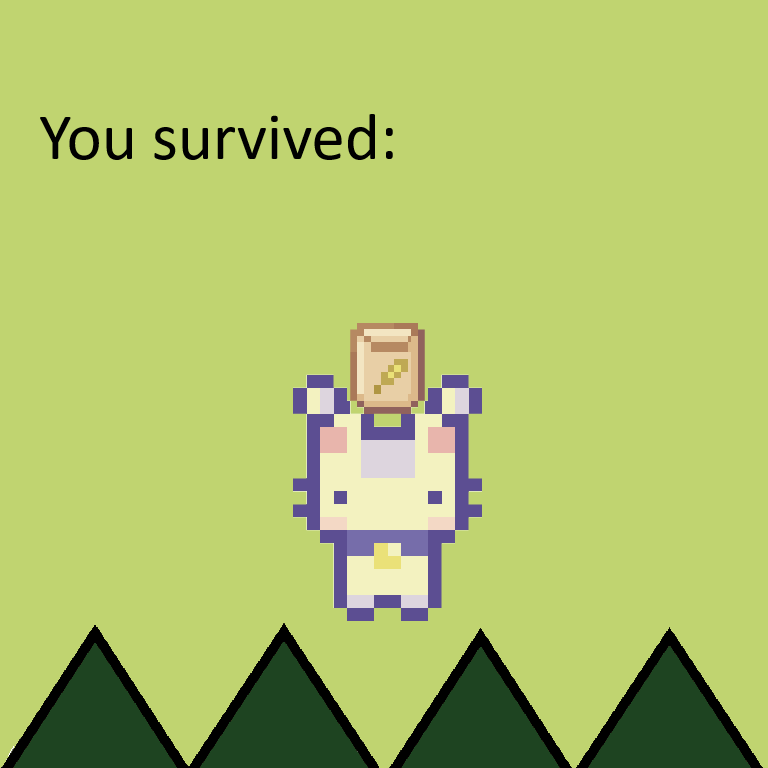
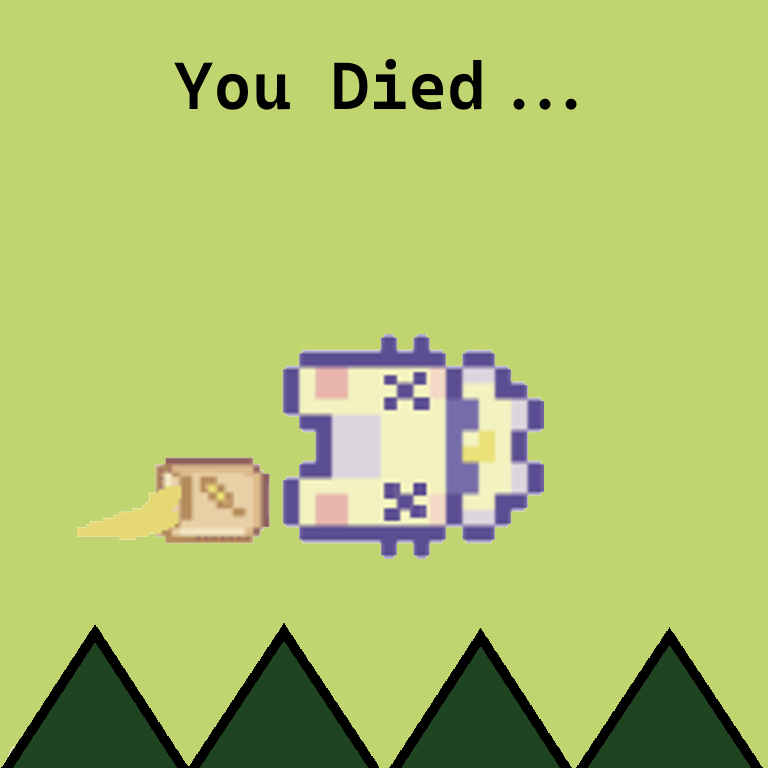
Made tornados break stuff

Changed region(s): [[0.0938, 0.4062, 0.7188, 0.8125], [0.0625, 0.0625, 0.625, 0.2188], [0.6562, 0.125, 0.75, 0.1562]]

diff --git a/natural_disaster.py b/natural_disaster.py
@@ -5,7 +5,8 @@ import random
 
 
 class NaturalDisaster(Generic):
-    def __init__(self, pos, image, group, speed):
+    def __init__(self, pos, image, group, speed, name):
+        self.name = name
         self.pos = pos
         self.image = image
         self.all_sprites = group
@@ -32,13 +33,13 @@ class NaturalDisaster(Generic):
         self.rect.x = self.pos[0]
         self.rect.y = self.pos[1]
 
-    # Make sure to make an if off-screen method
-
 
 class NaturalDisasterSpawner:
-    def __init__(self, natural_disasters, all_sprites):
+    def __init__(self, natural_disasters, all_sprites, soil_layer, plant_layer):
         self.natural_disasters = natural_disasters
         self.all_sprites = all_sprites
+        self.soil_layer = soil_layer
+        self.plant_layer = plant_layer
         self.tornado_timer = Timer(random.randint(NATURAL_DISASTER_SPAWN_TIMES['tornado'][0], NATURAL_DISASTER_SPAWN_TIMES['tornado'][1]), self.spawn, 'tornado')
         self.earthquake_timer = Timer(random.randint(NATURAL_DISASTER_SPAWN_TIMES['earthquake'][0], NATURAL_DISASTER_SPAWN_TIMES['earthquake'][1]), self.spawn, 'earthquake')
         self.timers = {'tornado': self.tornado_timer, 'earthquake': self.earthquake_timer}
@@ -50,13 +51,22 @@ class NaturalDisasterSpawner:
             all_sides = ['up', 'right', 'down', 'left']
             chosen_side = random.choice(all_sides)
             if chosen_side == 'up':
-                self.natural_disasters.append(Tornado((random.randrange(0, GROUND.get_width(), 64), -TILE_SIZE), TORNADO_IMAGE, self.all_sprites, TORNADO_SPEED))
+                self.natural_disasters.append(Tornado((random.randrange(0, GROUND.get_width(), 64), -TILE_SIZE), TORNADO_IMAGE, self.all_sprites, TORNADO_SPEED, self.soil_layer, self.plant_layer))
             elif chosen_side == 'right':
-                self.natural_disasters.append(Tornado((GROUND.get_width()+TILE_SIZE, random.randrange(0, GROUND.get_height(), 64)), TORNADO_IMAGE, self.all_sprites, TORNADO_SPEED))
+                self.natural_disasters.append(Tornado((GROUND.get_width()+TILE_SIZE, random.randrange(0, GROUND.get_height(), 64)), TORNADO_IMAGE, self.all_sprites, TORNADO_SPEED, self.soil_layer, self.plant_layer))
             elif chosen_side == 'down':
-                self.natural_disasters.append(Tornado((random.randrange(0, GROUND.get_width(), 64), GROUND.get_height()+TILE_SIZE), TORNADO_IMAGE, self.all_sprites, TORNADO_SPEED))
+                self.natural_disasters.append(Tornado((random.randrange(0, GROUND.get_width(), 64), GROUND.get_height()+TILE_SIZE), TORNADO_IMAGE, self.all_sprites, TORNADO_SPEED, self.soil_layer, self.plant_layer))
             elif chosen_side == 'left':
-                self.natural_disasters.append(Tornado((-TILE_SIZE, random.randrange(0, GROUND.get_height(), 64)), TORNADO_IMAGE, self.all_sprites, TORNADO_SPEED))
+                self.natural_disasters.append(Tornado((-TILE_SIZE, random.randrange(0, GROUND.get_height(), 64)), TORNADO_IMAGE, self.all_sprites, TORNADO_SPEED, self.soil_layer, self.plant_layer))
+        if disaster == 'earthquake':
+            random_x = random.randint(1, (GROUND.get_width() // TILE_SIZE) - 2)
+            random_y = random.randint(1, (GROUND.get_height() // TILE_SIZE) - 2)
+            same_location = False
+            for i in self.natural_disasters:
+                if i.name == 'Earthquake' and i.middle_tile == self.soil_layer.grid[random_x][random_y][0]:
+                    same_location = True
+            if not same_location:
+                self.natural_disasters.append(Earthquake(self.soil_layer.grid[random_x][random_y][0], self.soil_layer, self.plant_layer, self.all_sprites, ))
 
     def spawn(self, disaster):
         self.timers[disaster] = Timer(random.randint(NATURAL_DISASTER_SPAWN_TIMES[disaster][0], NATURAL_DISASTER_SPAWN_TIMES[disaster][0]), self.spawn, disaster)
@@ -77,15 +87,28 @@ class NaturalDisasterSpawner:
 
 
 class Tornado(NaturalDisaster):
-    def __init__(self, pos, image, group, speed):
-        NaturalDisaster.__init__(self, pos=pos, image=image, group=group, speed=speed)
+    def __init__(self, pos, image, group, speed, soil_layer, plant_layer):
+        self.soil_layer = soil_layer
+        self.plant_layer = plant_layer
+        NaturalDisaster.__init__(self, pos=pos, image=image, group=group, speed=speed, name='Tornado')
 
     def check_offscreen(self):
         if ((self.direction.x == 1 and self.pos[0] > GROUND.get_width()) or (self.direction.x == -1 and self.pos[0] < 0) or self.direction.x == 0) and ((self.direction.y == 1 and self.pos[1] > GROUND.get_height()) or (self.direction.y == -1 and self.pos[1] < 0) or self.direction.y == 0):
             self.marked_for_deletion = True
 
+    def destroy(self):
+        collided_tile_poses = self.soil_layer.tile_collision(self.rect, ShapeTypes.RECT)
+        if collided_tile_poses:
+            collided_tile_indexes = [(i[0] // TILE_SIZE, i[1] // TILE_SIZE) for i in collided_tile_poses]
+            for i in collided_tile_indexes:
+                if self.plant_layer.grid[i[0]][i[1]]:
+                    self.plant_layer.grid[i[0]][i[1]][0].marked_for_deletion = True
+                if self.soil_layer.grid[i[0]][i[1]][0]:
+                    self.soil_layer.grid[i[0]][i[1]][0].state = SoilStates.NORMAL
+
     def update(self, dt):
         self.check_offscreen()
+        self.destroy()
         self.move(dt)
 
 
@@ -98,25 +121,26 @@ class Earthquake(NaturalDisaster):
         self.all_tiles = self.find_all_tiles()
         self.frame_index = 0
         self.image = EARTHQUAKE_ANIMATIONS[self.frame_index]
-        NaturalDisaster.__init__(self, pos=(self.all_tiles[5][0]*TILE_SIZE, self.all_tiles[5][1]*TILE_SIZE), image=self.image, group=group, speed=0)
-        self.destroy()
+        NaturalDisaster.__init__(self, pos=(self.all_tiles[5][0]*TILE_SIZE, self.all_tiles[5][1]*TILE_SIZE), image=self.image, group=group, speed=0, name='Earthquake')
 
     def find_all_tiles(self):
         middle_collided_tile = self.soil_layer.tile_collision(self.middle_tile.pos, ShapeTypes.POINT)[0]
         return [(int((middle_collided_tile[0]+i[0])/TILE_SIZE), int((middle_collided_tile[1]+i[1])/TILE_SIZE)) for i in EARTHQUAKE_SURROUNDING_INTERVAL]
 
     def animate(self, dt):
-        self.frame_index += 0.5*dt
-        if self.frame_index <= len(EARTHQUAKE_ANIMATIONS):
+        self.frame_index += 1*dt
+        if self.frame_index < len(EARTHQUAKE_ANIMATIONS):
             self.image = EARTHQUAKE_ANIMATIONS[int(self.frame_index)]
             self.rect = self.image.get_rect(topleft=self.pos)
         else:
             self.marked_for_deletion = True
+            self.destroy()
 
     def destroy(self):
         for i in self.all_tiles:
+            # print((i[0], i[1]))
             if self.plant_layer.grid[i[0]][i[1]]:
-                self.plant_layer.grid[i[0]][i[1]].marked_for_deletion = True
+                self.plant_layer.grid[i[0]][i[1]][0].marked_for_deletion = True
             if self.soil_layer.grid[i[0]][i[1]][0]:
                 self.soil_layer.grid[i[0]][i[1]][0].state = SoilStates.NORMAL
 

diff --git a/level.py b/level.py
@@ -13,7 +13,7 @@ from natural_disaster import *
 class Level:
     def __init__(self):
         self.display_surface = pygame.display.get_surface()
-        self.all_sprites = CameraGroup()
+        self.all_sprites = None
         self.soil_layer = None
         self.plant_layer = None
         self.player = None
@@ -23,7 +23,11 @@ class Level:
         self.natural_disaster_spawner = None
         self.natural_disasters = None
 
+    def start(self):
+        pass
+
     def setup(self):
+        self.all_sprites = CameraGroup()
         Generic(pos=(0, 0), surface=GROUND, groups=self.all_sprites)
         self.soil_layer = SoilLayer(self.all_sprites)
         self.plant_layer = PlantLayer(self.all_sprites, self.soil_layer)
@@ -31,8 +35,8 @@ class Level:
         self.inventory = Inventory(self.player.selected_tool)
         self.hunger_bar = HungerBar()
         self.global_timer = GlobalTimer(GLOBAL_TIMER_POS)
-        self.natural_disasters = [Earthquake(self.soil_layer.grid[1][1][0], self.soil_layer, self.plant_layer, self.all_sprites)]
-        self.natural_disaster_spawner = NaturalDisasterSpawner(self.natural_disasters, self.all_sprites)
+        self.natural_disasters = []
+        self.natural_disaster_spawner = NaturalDisasterSpawner(self.natural_disasters, self.all_sprites, self.soil_layer, self.plant_layer)
 
     def run(self, dt):
         if not self.check_end_con():
